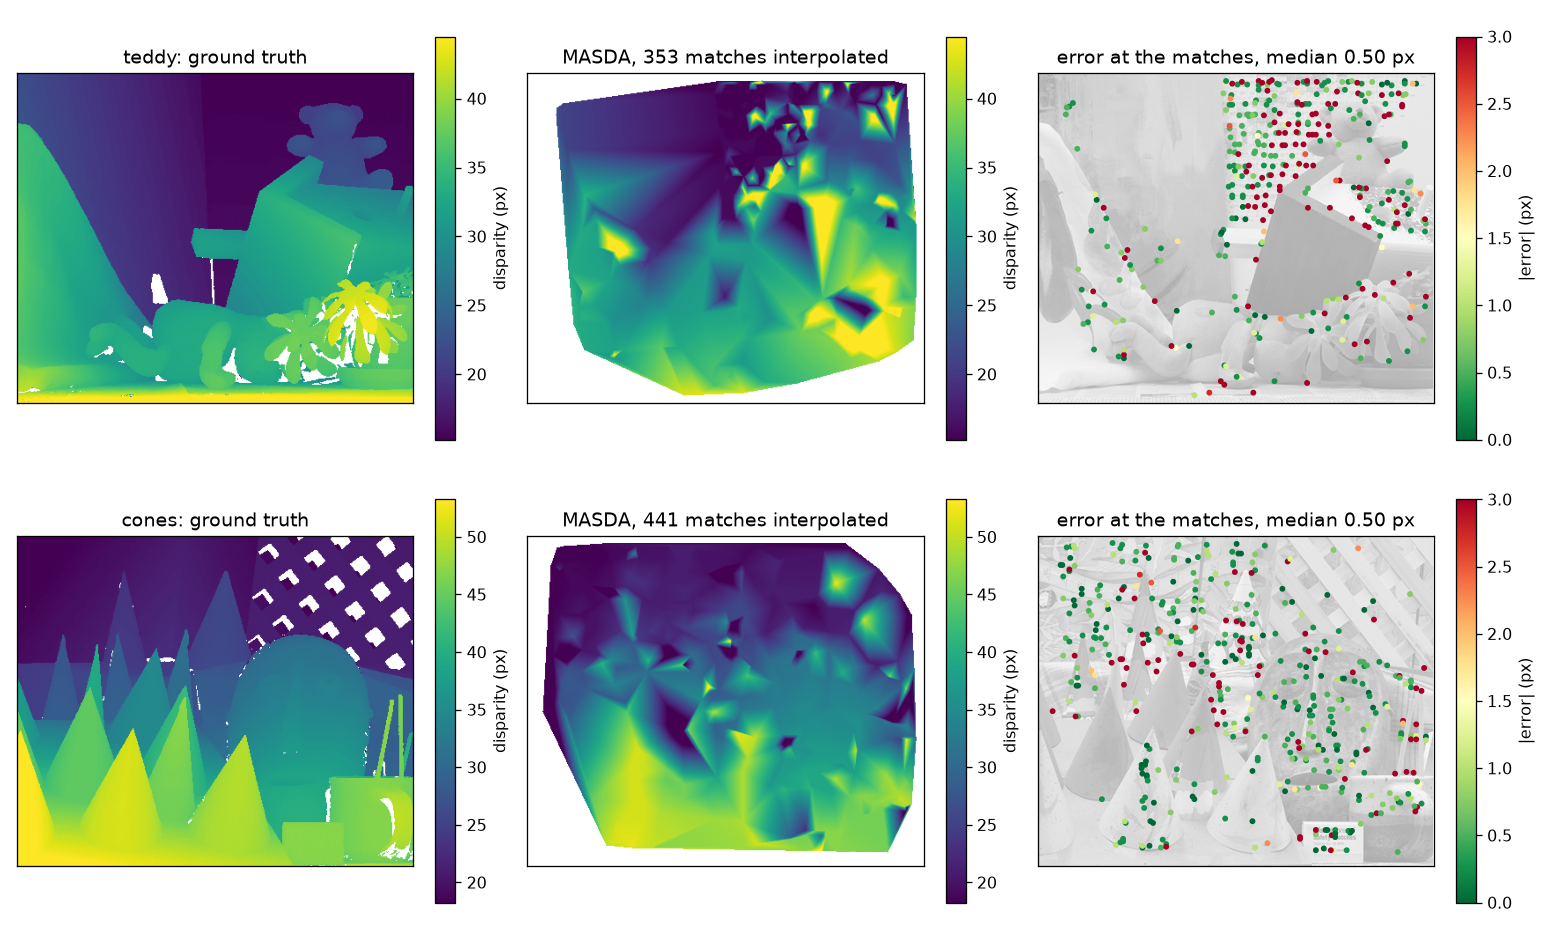
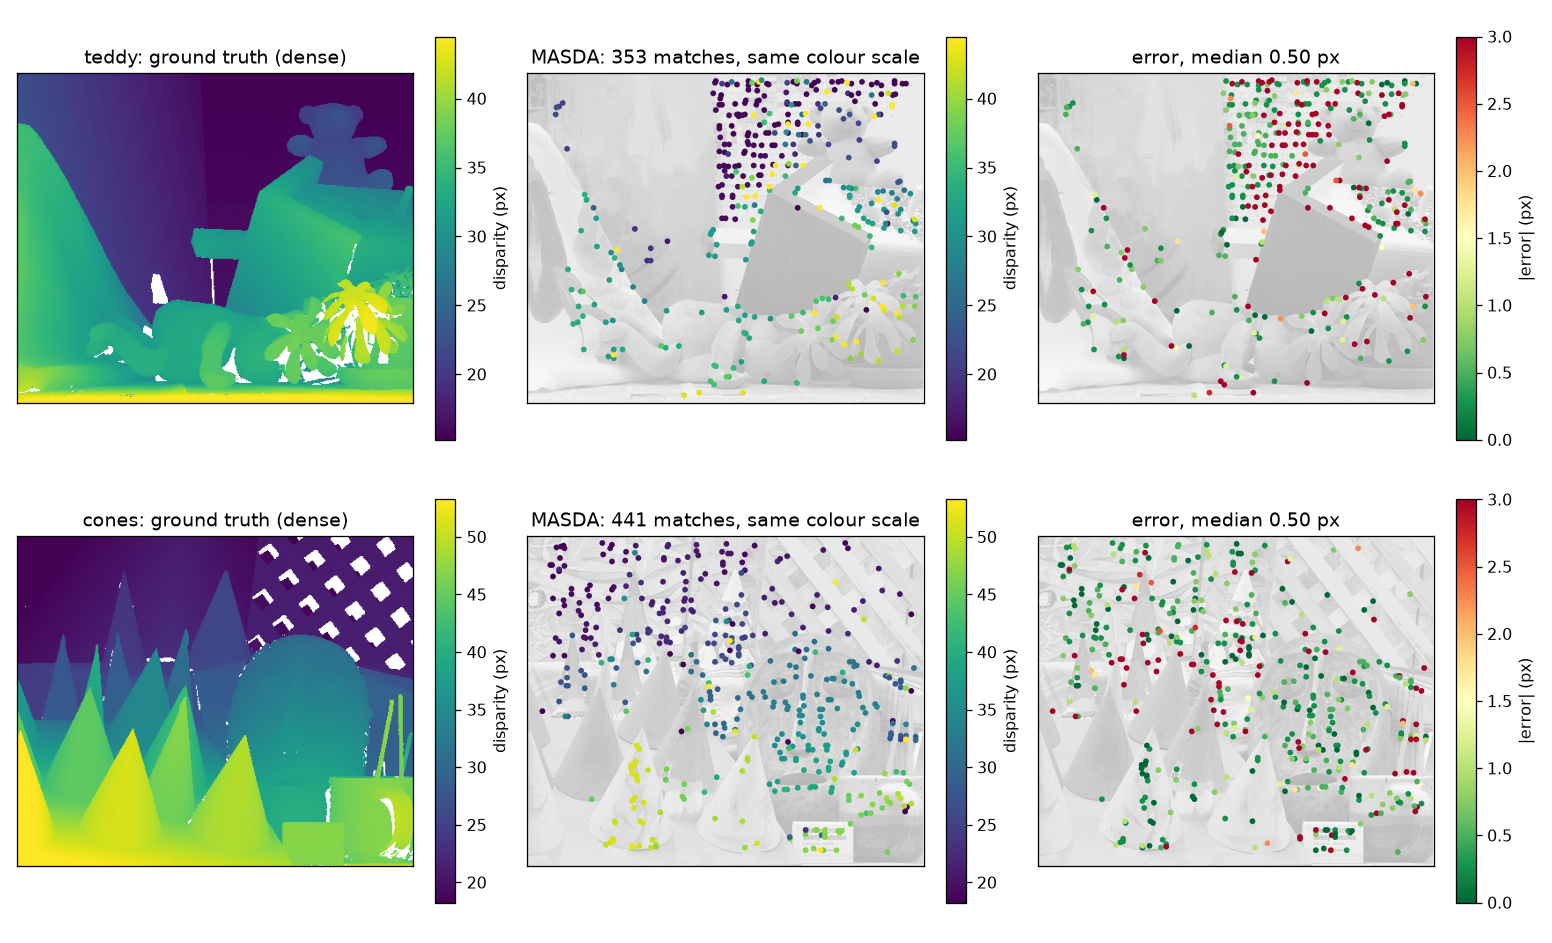
article: show the matches, not an interpolated surface -- interpolation destroys the edges
The first version of this figure triangulated the matches into a surface. Mario
called it distorted and unusable, and noted the missing sharp edges. Both correct,
and the second point is structural rather than cosmetic.

A Delaunay triangle spans straight across an occlusion boundary, so interpolation
turns every depth step into a ramp. The sharp discontinuities are the one thing a
sparse match set genuinely gets right -- each match is a measurement at a single
pixel, with nothing smoothing across the boundary -- and interpolating is precisely
the operation that throws them away.

It also flattered nothing: interpolating a point set with precision 0.615 puts a
wrong value between every pair of wrong matches. Filtering by margin barely helps,
measured: margin >= 0.3 gives precision 0.64, margin >= 0.6 gives 0.69, and the
surface stays distorted at both. So the surface misrepresented the method in both
directions at once, hiding real edges and inventing smooth error.

The figure now plots every match at its keypoint, coloured by estimated disparity
on the SAME colour scale as the ground truth beside it. A dot whose colour matches
the truth underneath is a correct match; no further processing is needed to read
it. Teddy's wall/floor step lands where the ground truth puts it and Cones'
individual cones separate, which is visible only because nothing was smoothed.

The section now also says what the right answer is: sparse support points feeding a
[…]

diff --git a/article/2026-08-07-MASDA-for-Sparse-Stereo-Matching.md b/article/2026-08-07-MASDA-for-Sparse-Stereo-Matching.md
@@ -438,33 +438,44 @@ Everything above is tables. This is the output they describe.
 
 ![depth maps](https://raw.githubusercontent.com/mayio/mayio.github.io/master/assets/img/2026-08-07-MASDA-for-Sparse-Stereo-Matching_files/depth_maps.png)
 
-Left is ground truth. Middle is MASDA's disparity: the matched keypoints,
-triangulated and interpolated into a surface. Right is the error, evaluated **at
-the matches only** rather than on the interpolated surface, so it measures the
-matcher and not the rendering.
+Left is the dense ground truth. Middle is every match MASDA returned, plotted at
+its keypoint and coloured by the disparity it estimated, **on the same colour
+scale** — so a dot whose colour matches the ground truth beneath it is a correct
+match, and the comparison needs no further processing. Right is the error.
 
-The middle panel invents everything between matches. Three hundred and fifty three
-points cannot be shown as a picture any other way -- as dots on black they convey
-nothing about whether the geometry is right -- but nothing between two matches was
-measured, and the triangle edges visible in the surface are an artefact of the
-rendering, not structure in the scene.
+Read the middle panel against the left one and the structure is there. Teddy's back
+wall comes out dark, its floor bright, and the step between them lands where the
+ground truth puts it. On Cones the individual cones separate: near ones yellow,
+the far lattice dark, the ordering along each cone preserved. **Depth
+discontinuities are sharp**, because every match is a measurement at one pixel and
+nothing smooths across the boundary.
 
-What it shows is the honest scope of sparse stereo. The coarse geometry is right:
-Teddy's back wall is far and its floor near, Cones' foreground cones stand out from
-the background, and both gradients match the ground truth beside them. The object
-shapes are not resolved. There is no teddy bear in the middle panel, and no cones
-in the lower one, because a few hundred points spread over 407k pixels cannot carry
-a silhouette.
+What the matcher does not give you is a value everywhere. 353 points over 407k
+pixels is one per 1150, and no arrangement of them is a depth image.
 
-That is not a shortfall to tune away, it is what the method is. These points exist
-to feed odometry, calibration and structure, where a few hundred well-localised
-sub-pixel correspondences are worth more than a dense map. If a depth image is the
-product, dense stereo is the right tool and
-[section 8](#8-comparison-with-existing-work) says so.
+#### Why not just interpolate them into a surface?
 
-The error panels also make the failure mode visible. Teddy's red cluster sits in the
-upper right, on the printed newspaper, exactly where the margin analysis said
-precision falls to 0.514. Cones has no such cluster; its errors are scattered.
+My first version of this figure did exactly that, triangulating the matches and
+interpolating. It is worth saying why it was wrong, because it is the obvious thing
+to try.
+
+**Interpolation destroys the one thing the sparse result gets right.** A Delaunay
+triangle spans straight across an occlusion boundary, so a depth step becomes a
+ramp: the edges visible in the middle panel above are smeared away by the very
+operation meant to make the result readable. The rendered surface also looked far
+worse than the numbers deserve, because interpolating a point set with precision
+0.615 puts a wrong value between every pair of wrong matches, and filtering by
+margin barely helps — at margin ≥ 0.6 precision reaches only 0.69 and the surface
+is still distorted.
+
+So a triangulated surface misrepresents this method in both directions at once: it
+hides the sharp edges that are real and invents smooth error that is not.
+
+The right way to get dense depth *from* sparse support points is not to interpolate
+them but to use them as a prior for a per-pixel estimate that can still follow image
+edges, which is exactly what ELAS does and why it appears in
+[section 8](#8-comparison-with-existing-work). That is a different algorithm, not a
+rendering choice.
 
 ### Back to the tables
 
